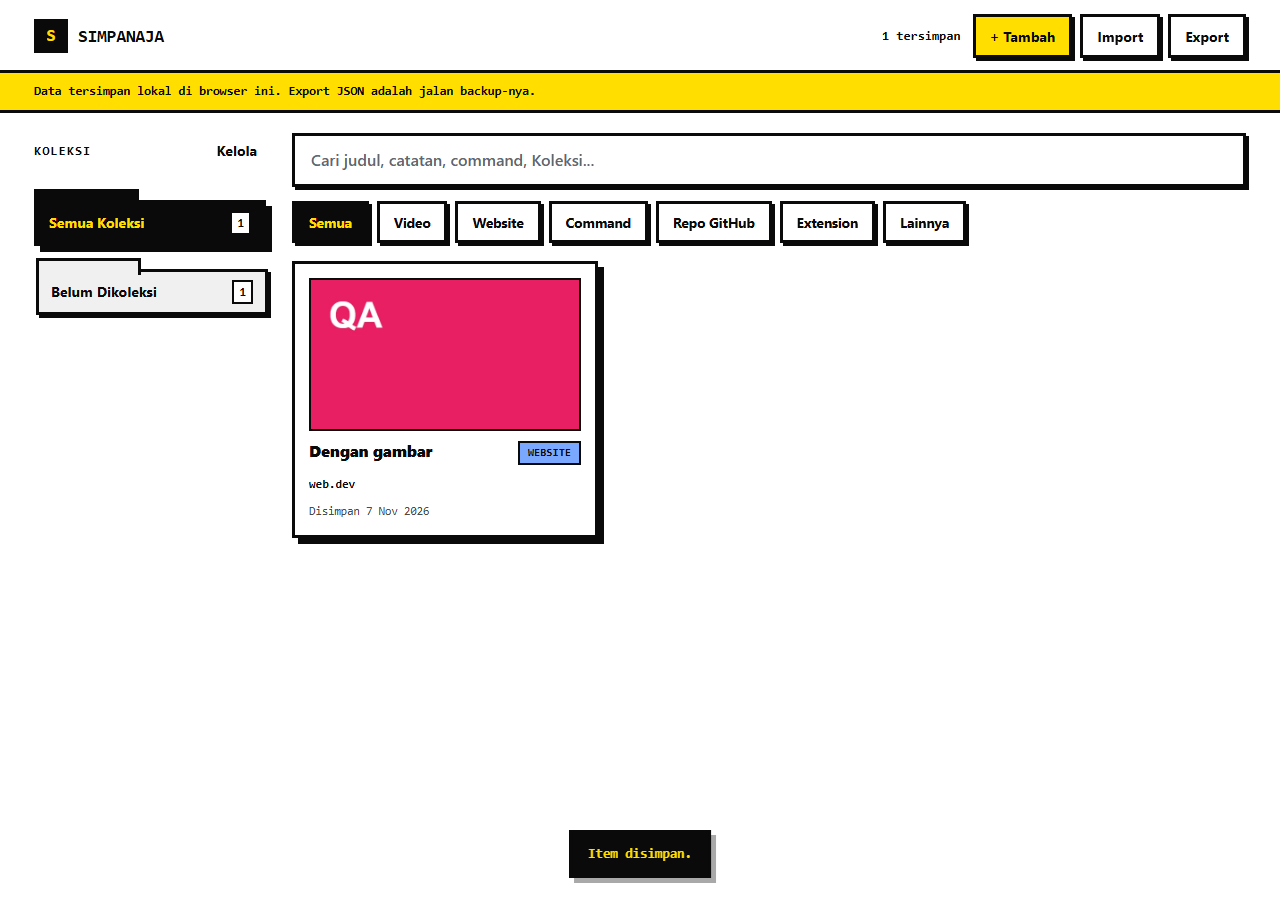
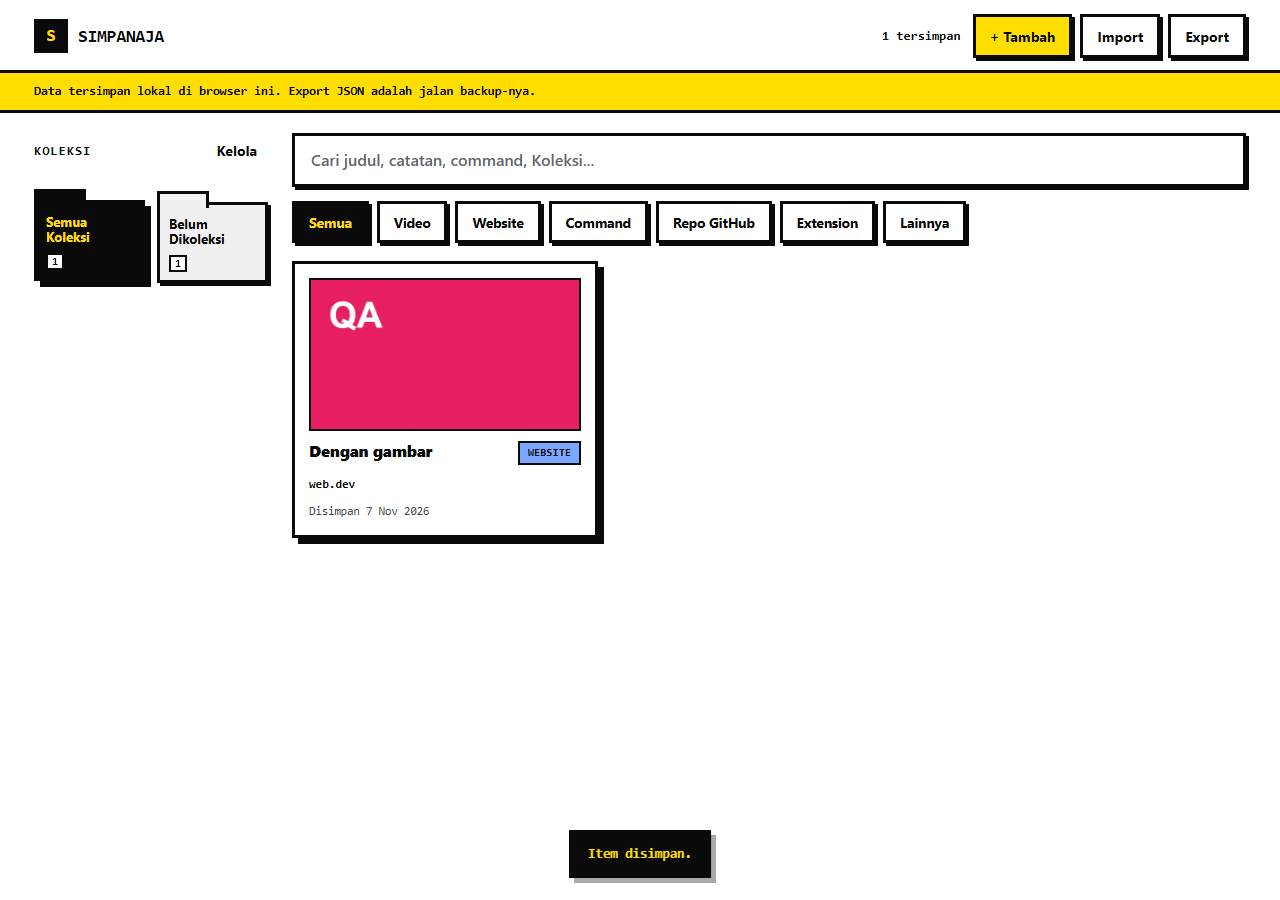
style(hp): rapikan bar atas, folder grid, chip sebaris, kelola & detail

Changed region(s): [[0.0312, 0.1867, 0.2188, 0.3733]]

diff --git a/app/styles.css b/app/styles.css
@@ -107,6 +107,15 @@ h1, h2, h3 { margin: 0; font-family: var(--mono); font-weight: 800; letter-spaci
 .btn-danger:hover { background: var(--danger); color: #fff; }
 .btn-small { min-height: 36px; font-size: 13px; padding: 0 10px; }
 
+/* HP: bar atas rapi — brand, lalu 3 tombol sama lebar dalam satu baris. */
+@media (max-width: 639px) {
+  .topbar { display: grid; grid-template-columns: minmax(0, 1fr); gap: 10px; }
+  .topbar h1 { font-size: 17px; }
+  .topbar-actions { display: grid; grid-template-columns: repeat(3, minmax(0, 1fr)); gap: 8px; }
+  .topbar-actions .total { grid-column: 1 / -1; margin: 0; }
+  .topbar-actions .btn { width: 100%; padding: 0 6px; }
+}
+
 /* ---------- layout ---------- */
 .layout {
   display: grid; gap: 22px;
@@ -121,15 +130,16 @@ h1, h2, h3 { margin: 0; font-family: var(--mono); font-weight: 800; letter-spaci
 .sidebar-head { display: flex; align-items: center; justify-content: space-between; margin-bottom: 10px; gap: 8px; }
 .sidebar-head h2 { font-size: 13px; letter-spacing: .08em; color: var(--ink); }
 
-.collection-list { display: flex; gap: 10px; overflow-x: auto; padding: 12px 2px 6px; }
+/* Folder Koleksi: grid kotak (bukan bar), jumlah kolom ikut lebar layar. */
+.collection-list { display: grid; grid-template-columns: repeat(auto-fill, minmax(150px, 1fr)); gap: 16px 10px; padding: 12px 2px 6px; }
 @media (min-width: 1024px) {
-  /* Kotak folder dua kolom di sidebar, bukan bar selebar sidebar. */
-  .collection-list { display: grid; grid-template-columns: repeat(2, minmax(0, 1fr)); gap: 16px 10px; overflow: visible; }
+  /* Kotak folder dua kolom di sidebar sempit. */
+  .collection-list { grid-template-columns: repeat(2, minmax(0, 1fr)); gap: 16px 10px; }
 }
 .collection-item {
   position: relative;
   display: flex; flex-direction: column; align-items: flex-start; justify-content: space-between; gap: 8px;
-  width: 132px; min-height: 64px; padding: 11px 9px 8px; margin-top: 11px; flex: 0 0 auto;
+  width: 100%; min-height: 64px; padding: 11px 9px 8px; margin-top: 11px; flex: 0 0 auto;
   background: var(--folder, var(--accent));
   border: var(--bw) solid var(--ink); border-radius: 0;
   box-shadow: var(--shadow-sm); color: var(--ink);
@@ -149,7 +159,6 @@ h1, h2, h3 { margin: 0; font-family: var(--mono); font-weight: 800; letter-spaci
 .collection-item.is-all::before { background: var(--ink); }
 .collection-item.is-none { background: var(--surface-2); }
 .collection-item.is-none::before { background: var(--surface-2); }
-@media (min-width: 1024px) { .collection-item { width: 100%; } }
 .collection-item:hover { box-shadow: 5px 5px 0 var(--ink); }
 .collection-item[aria-current="true"] { box-shadow: 6px 6px 0 var(--ink); transform: translate(-2px, -2px); }
 .collection-item .count {
@@ -174,6 +183,11 @@ h1, h2, h3 { margin: 0; font-family: var(--mono); font-weight: 800; letter-spaci
 .search:focus-visible { background: #fffce0; }
 
 .chips { display: flex; gap: 8px; flex-wrap: wrap; margin-bottom: 18px; }
+@media (max-width: 639px) {
+  /* HP: chip satu baris yang bisa digeser, hemat tinggi. */
+  .chips { flex-wrap: nowrap; overflow-x: auto; padding-bottom: 6px; }
+  .chip { flex: 0 0 auto; }
+}
 .chip {
   min-height: 42px; padding: 0 14px;
   display: inline-flex; align-items: center;
@@ -300,6 +314,11 @@ h1, h2, h3 { margin: 0; font-family: var(--mono); font-weight: 800; letter-spaci
 .manage-row .count { font-family: var(--mono); color: var(--ink); font-size: 12px; font-weight: 700; min-width: 56px; text-align: right; }
 .manage-row .color-picker { flex-basis: 100%; }
 .manage-empty { color: var(--muted); font-size: 13.5px; }
+@media (max-width: 639px) {
+  /* HP: nama di baris sendiri, lalu jumlah + Hapus, lalu swatch warna. */
+  .manage-row input { flex-basis: 100%; }
+  .manage-row .count { flex: 1 1 auto; text-align: left; }
+}
 
 .color-picker { display: flex; flex-wrap: wrap; gap: 6px; }
 .color-swatch {
@@ -330,6 +349,10 @@ h1, h2, h3 { margin: 0; font-family: var(--mono); font-weight: 800; letter-spaci
   display: block; font-family: var(--mono); font-size: 12px; color: var(--muted);
   overflow: hidden; text-overflow: ellipsis; white-space: nowrap;
   word-break: break-all; line-height: 1.4;
+}
+@media (max-width: 639px) {
+  /* HP: URL panjang dibungkus agar terbaca penuh, tidak terpotong. */
+  .detail-url { white-space: normal; overflow-wrap: anywhere; }
 }
 .detail-command {
   margin: 0; padding: 10px 12px; background: var(--ink); color: var(--accent);

diff --git a/EXECUTION-LOG.md b/EXECUTION-LOG.md
@@ -214,3 +214,12 @@ Rencana: `PLAN.md`. Spec: `SPECS.md`. Bukan repo git (sesuai spec), jadi tak ada
 - Tes: 51 pass, 0 fail (tes baru untuk round-trip warna Koleksi). QA `qa/final-qa.mjs` 14/14; `qa/manual-image.mjs` 5/5. Bukti visual: `qa/collections-sidebar.png`, `qa/collections-manage.png`, `qa/collections-mobile.png`.
 
 - Koleksi folder: item dikecilkan jadi kotak folder (132px, 2 kolom grid di sidebar desktop) bukan bar selebar sidebar; nama dibatasi 2 baris, lencana jumlah di bawah. Bukti: `qa/collections-sidebar.png`, `qa/collections-mobile.png`.
+
+## Rapikan tampilan HP (390px)
+
+- Bar atas jadi grid: brand, teks jumlah, lalu 3 tombol (+ Tambah/Import/Export) sama lebar satu baris (sebelumnya Export sendirian di baris kedua).
+- Daftar Koleksi: grid kotak folder auto-fill minmax(150px,1fr) - 2 kolom rapi di HP tanpa geser mendatar (menggantikan baris scroll); desktop tetap 2 kolom di sidebar 236px.
+- Chip filter tipe: satu baris yang bisa digeser di HP (hemat tinggi).
+- Dialog Kelola Koleksi: nama di baris sendiri, lalu jumlah + Hapus, lalu swatch warna.
+- URL di halaman detail dibungkus di HP agar terbaca penuh.
+- Tes: 51 pass, 0 fail. QA qa/final-qa.mjs 14/14 (termasuk kriteria 11 tanpa overflow 390px); qa/manual-image.mjs 5/5. Bukti: qa/m-home.png, qa/m-detail.png, qa/m-manage.png, qa/m-form.png (menggantikan qa/collections-mobile.png).
